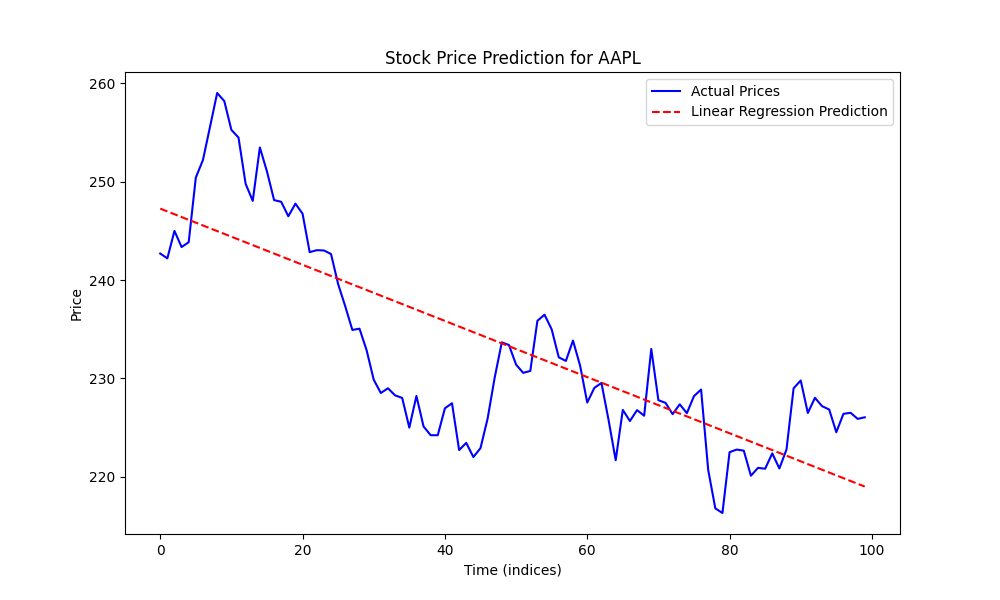
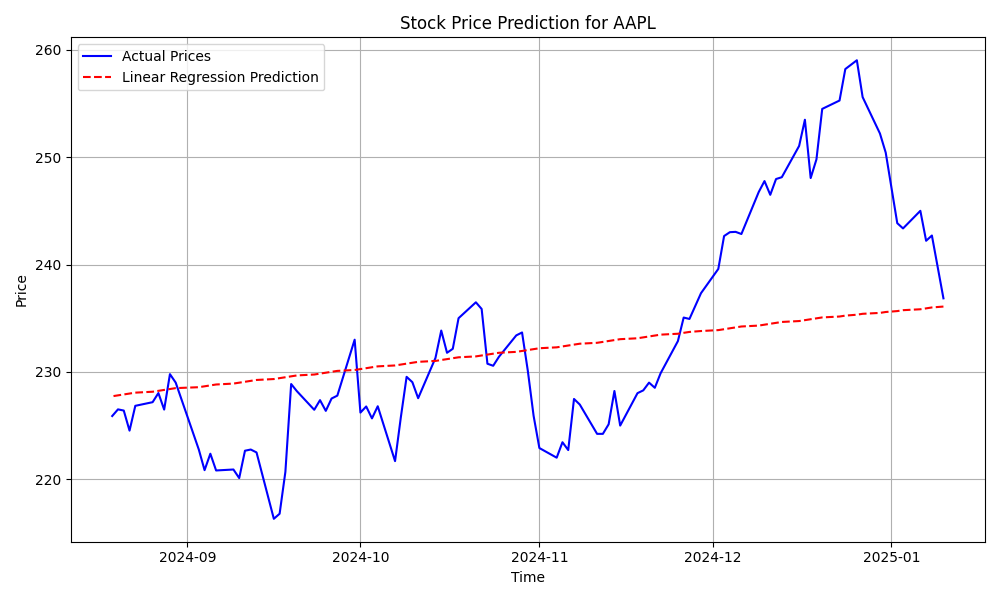
fix: resolved a major issue causing the program to miscalculate

diff --git a/stock_prediction/predictor.py b/stock_prediction/predictor.py
@@ -1,14 +1,15 @@
 # Stock prediction (Linear regression)
-# https://scikit-learn.org/stable/user_guide.html
+# Sklearn https://scikit-learn.org/stable/user_guide.html
 # API https://www.alphavantage.co/documentation/
+# Matplotlib https://matplotlib.org/stable/users/index.html
 
-import matplotlib.pyplot as plt, numpy as np, requests
+import matplotlib.pyplot as plt, numpy as np, pandas as pd, requests
 from sklearn.linear_model import LinearRegression
 from sklearn.model_selection import train_test_split
 
 # Function to fetch stock data from Alpha Vantage API
 def fetch_stock_data(stock_code, api_key):
-    url = f"https://www.alphavantage.co/query?function=TIME_SERIES_DAILY&symbol={stock_code}&apikey={api_key}"
+    url = f"https://www.alphavantage.co/query?function=TIME_SERIES_DAILY&outputsize=compact&symbol={stock_code}&apikey={api_key}"
     response = requests.get(url)
     data = response.json()
     if "Time Series (Daily)" in data:
@@ -19,15 +20,14 @@ def fetch_stock_data(stock_code, api_key):
 
 # Prepare data
 def prepare_data(time_series):
-    times = list(range(len(time_series)))
+    dates = list(time_series.keys())
     prices = [float(v["4. close"]) for v in time_series.values()]
-    horizontal = np.array(times).reshape(-1, 1)
+    horizontal = pd.to_datetime(dates)
     vertical = np.array(prices)
     return horizontal, vertical
 
 # Main function
 def main():
-    # Do not disclose
     api_key = "EL1WRWLWB9B05AS1"
     stock_code = input("Please enter the stock code: ")
 
@@ -35,31 +35,44 @@ def main():
     time_series = fetch_stock_data(stock_code.strip(), api_key)
 
     # Prepare data
-    X, y = prepare_data(time_series)
+    X_horizontal, y_vertical = prepare_data(time_series)
 
     # Train the data
-    X_train, X_test, y_train, y_test = train_test_split(X, y, test_size = 0.2, random_state = 42)
+    X_train, X_test, y_train, y_test = train_test_split(X_horizontal, y_vertical, test_size=0.25, random_state=42)
 
     # Perform linear regression
-    model = LinearRegression()
-    model.fit(X_train, y_train)
+    reg = LinearRegression().fit(np.arange(len(X_train)).reshape(-1, 1), y_train)
+    # reg.score(X_horizontal, y_vertical)f
 
     # Predict
-    y_pred = model.predict(X)
+    y_pred = reg.predict(np.arange(len(X_horizontal)).reshape(-1, 1))
 
     # Plot graph
     plt.figure(figsize=(10, 6))
-    plt.plot(X, y, color="blue", label="Actual Prices", linestyle="-")  # Solid line for actual prices
-    plt.plot(X, y_pred, color="red", label="Linear Regression Prediction", linestyle="--")  # Dotted line for prediction
+    # Solid line for actual prices
+    plt.plot(X_horizontal, y_vertical, color="blue", label="Actual Prices", linestyle="-")
+    # Dotted line for prediction
+    plt.plot(X_horizontal, y_pred, color="red", label="Linear Regression Prediction", linestyle="--")
     plt.title(f"Stock Price Prediction for {stock_code}")
-    plt.xlabel("Time (indices)")
+    plt.xlabel("Time")
     plt.ylabel("Price")
+    # plt.xticks(rotation=45)
+    plt.grid(True)
+    plt.tight_layout()
     plt.legend()
 
-    # Export
-    output_file = f"{stock_code}_prediction.png"
-    plt.savefig(output_file)
-    print(f"Prediction chart saved as {output_file}")
+    # Export and view
+    print("Do you want to export the chart as a png or view it? [0 = View it, 1 = Export as png] \n(Please mind that the viewing option won't work if you're using running this code in a web browser)")
+    choice = int(input("Please input your choice: "))
+    if choice == 0:
+        plt.show()
+    elif choice == 1:
+        output_file = f"{stock_code}_prediction.png"
+        plt.savefig(output_file)
+        print(f"Prediction chart saved as {output_file}")
+    else:
+        print("Invalid choice!")
+        exit()
 
 if __name__ == "__main__":
     main()

diff --git a/cpu_heater6000.py b/cpu_heater6000.py
@@ -1,0 +1,33 @@
+import multiprocessing
+import time
+
+def cpu_stress_test():
+    # Perform a heavy computation
+    while True:
+        sum(i * i for i in range(10000))
+
+if __name__ == "__main__":
+    # Get the number of CPU cores
+    num_cores = multiprocessing.cpu_count()
+    print(f"Starting CPU stress test on {num_cores} cores.")
+
+    # Create a process for each core
+    processes = []
+    for _ in range(num_cores):
+        p = multiprocessing.Process(target=cpu_stress_test)
+        p.start()
+        processes.append(p)
+
+    try:
+        # Run the stress test for a specified duration (e.g., 60 seconds)
+        time.sleep(6000)
+    except KeyboardInterrupt:
+        print("Stress test interrupted.")
+
+    # Terminate all processes
+    for p in processes:
+        p.terminate()
+    for p in processes:
+        p.join()
+
+    print("Stress test completed.")
